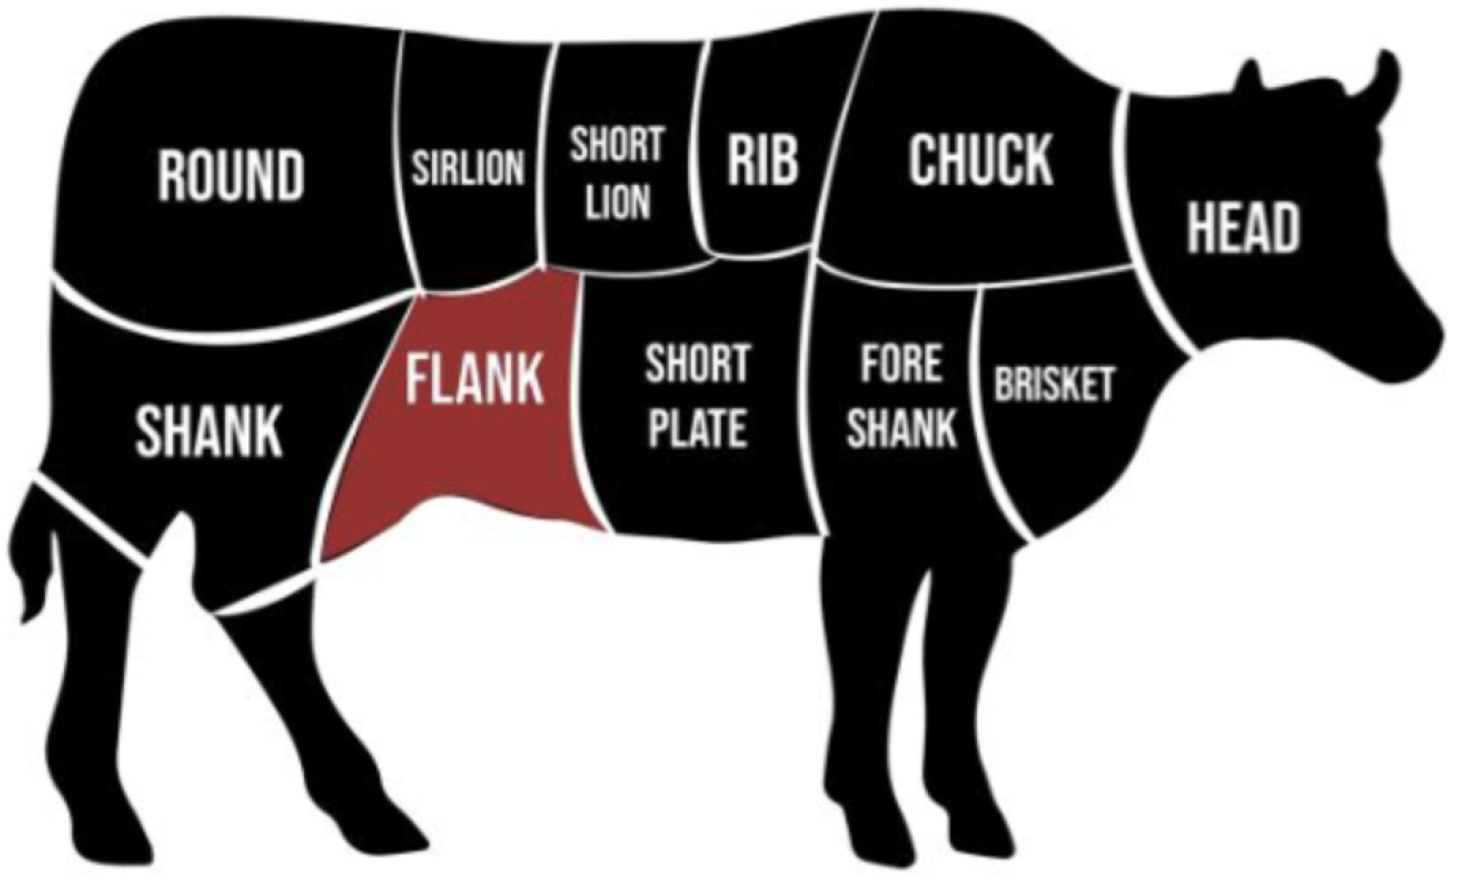
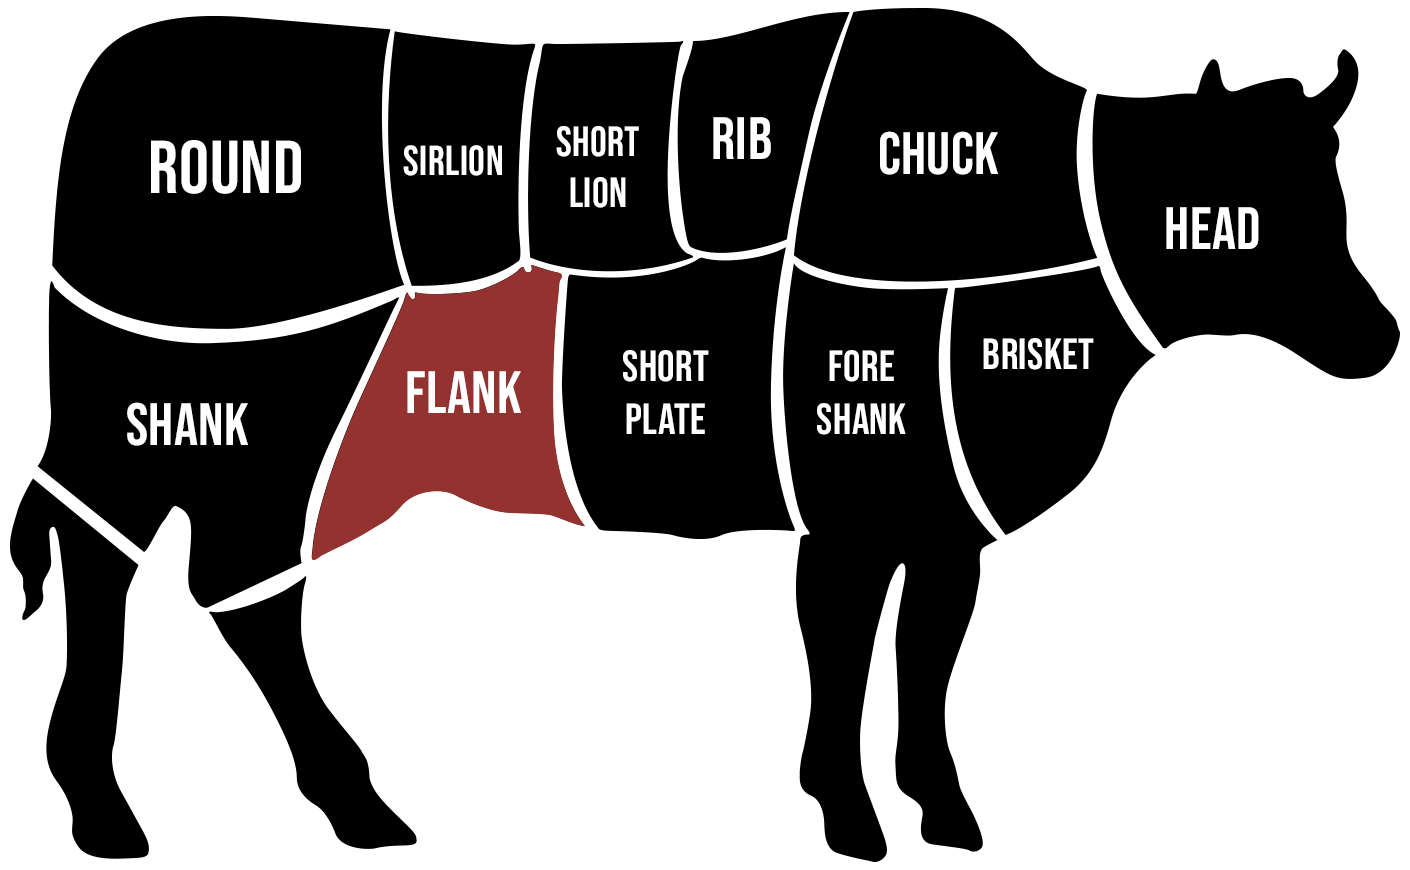
[1851269] added cows image with fix piechart dimension

diff --git a/src/packages/blocks/analytics/src/AnalyticsController.tsx b/src/packages/blocks/analytics/src/AnalyticsController.tsx
@@ -520,88 +520,88 @@ export default class AnalyticsController extends BlockComponent<Props, S, SS> {
       },
       [AnimalParts.chuck]: {
         isShow: true,
-        x: 150,
-        y:-60,
+        x: 140,
+        y:5,
         lineHeight: 15,
         sold: 100,
         remaining: 220
       },
       [AnimalParts.cow_Fore_Shank]: {
         isShow: true,
-        x: 145,
-        y:-60,
+        x: 125,
+        y:3,
         lineHeight: 80,
         sold: 105,
         remaining: 220
       },
       [AnimalParts.cowHead]: {
         isShow: true,
-        x: 210,
-        y:-50,
+        x: 175,
+        y:15,
         lineHeight: 15,
         sold: 100,
         remaining: 73
       },
       [AnimalParts.cow_Rib]: {
         isShow: true,
-        x: 120,
-        y:-50,
+        x: 100,
+        y: 5,
         lineHeight: 15,
         sold: 100,
         remaining: 22
       },
       [AnimalParts.cow_Short_lion]: {
         isShow: true,
-        x: 90,
-        y:-50,
+        x: 80,
+        y:10,
         lineHeight: 15,
         sold: 100,
         remaining: 22
       },
       [AnimalParts.cow_Sirllion]: {
         isShow: true,
-        x: 70,
-        y:-50,
+        x: 55,
+        y:10,
         lineHeight: 15,
         sold: 100,
         remaining: 22
       },
       [AnimalParts.cow_Round]: {
         isShow: true,
-        x: 50,
-        y:-50,
+        x: 20,
+        y: 5,
         lineHeight: 15,
         sold: 100,
         remaining: 22
       },
       [AnimalParts.cow_shank]: {
         isShow: true,
-        x: 30,
-        y:-60,
+        x: 20,
+        y: 5,
         lineHeight: 80,
         sold: 100,
         remaining: 80
       },
       [AnimalParts.cow_Flank]: {
         isShow: true,
-        x: 70,
-        y:-60,
+        x: 55,
+        y: 10,
         lineHeight: 80,
         sold: 20,
         remaining: 80
       },
       [AnimalParts.cow_Short_plate]: {
         isShow: true,
-        x: 110,
-        y:-60,
+        x: 90,
+        y:10,
         lineHeight: 65,
         sold: 20,
         remaining: 65
       },
       [AnimalParts.cow_Brisket]: {
         isShow: true,
-        x: 170,
-        y:-60,
+        x: 150,
+        y:5,
         lineHeight: 65,
         sold: 20,
         remaining: 65

diff --git a/src/packages/blocks/analytics/src/AnimalAnalytics.tsx b/src/packages/blocks/analytics/src/AnimalAnalytics.tsx
@@ -9,7 +9,7 @@ import {
   Image
   // Customizable Area End
 } from "react-native";
-import { cow_brisket, cow_chuch, cow_flank, cow_foreshank, cow_head, cow_rib, cow_round, cow_shank, cow_shortlion, cow_sirlion } from "./assets";
+import { cow_brisket, cow_chuch, cow_flank, cow_foreshank, cow_head, cow_rib, cow_round, cow_shank, cow_shortlion, cow_shortplate, cow_sirlion } from "./assets";
 
 import AnalyticsController, {AnimalParts, Props} from "./AnalyticsController";
 import AnimalChart from "../../../components/src/AnimalChart";
@@ -27,7 +27,7 @@ export default class AnimalAnalytics extends AnalyticsController {
     return (
       // Customizable Area Start
       <View style={styles.container} testID="animalView">
-        {this.props?.animalSelectedValue == 'Eggs' &&
+        {this.props?.animalSelectedValue == 'Chuck Eye Steak' &&
           <View style={styles.animalImgContainer}>
             <AnimalChart top={top} left={left} isShow={isAnimalChartSow} sold={sold} remaining={remaining} lineHeight={lineHeight} />
             <View style={styles.animalImgCont}>
@@ -105,7 +105,7 @@ export default class AnimalAnalytics extends AnalyticsController {
                 <Image
                   style={styles.animalImg}
                   resizeMode="contain"
-                  source={cow_shortlion}
+                  source={cow_shortplate}
                 />
               }
               {this.state.cow_Brisket &&
@@ -164,7 +164,7 @@ const styles = StyleSheet.create({
   animalImgContainer: {
     backgroundColor: "white",
     paddingHorizontal: 15,
-    paddingVertical: 15,
+    paddingVertical: 75,
     borderRadius: 10,
     marginBottom: 15,
     marginTop: 40

diff --git a/src/packages/blocks/analytics/src/assets.tsx b/src/packages/blocks/analytics/src/assets.tsx
@@ -8,6 +8,7 @@ export const cow_shank = require("../assets/cow_shank.png");
 export const cow_chuch = require("../assets/cow_chuck.png");
 export const cow_shortlion = require("../assets/cow_shortlion.png");
 export const cow_sirlion = require("../assets/cow_sirlion.png");
+export const cow_shortplate = require("../assets/cow_shortplate.png");
 export const chicken = require('../assets/chicken.png');
 export const chicken_Neck = require('../assets/chicken_Neck.png');
 export const chicken_Back = require('../assets/chicken_Back.png');

diff --git a/src/packages/blocks/analytics/src/Analytics.tsx b/src/packages/blocks/analytics/src/Analytics.tsx
@@ -416,6 +416,7 @@ const styles = StyleSheet.create({
     top: -25,
   },
   animalImagContainer: {
+    // marginTop:50,
     marginBottom: 10
   },
 });
